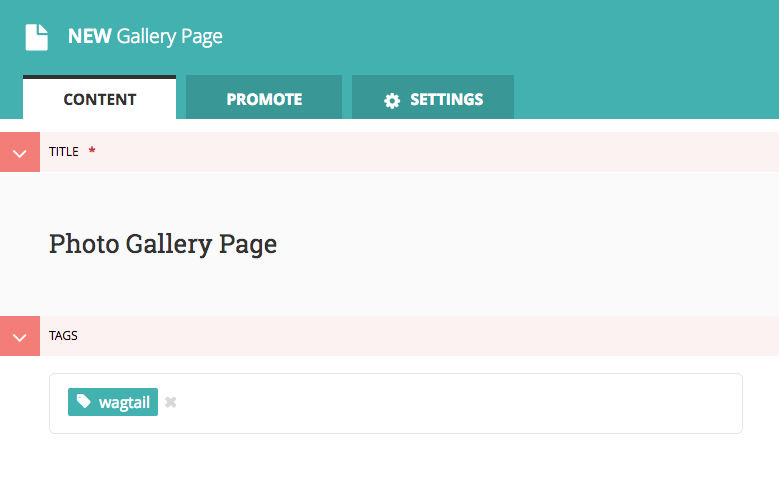
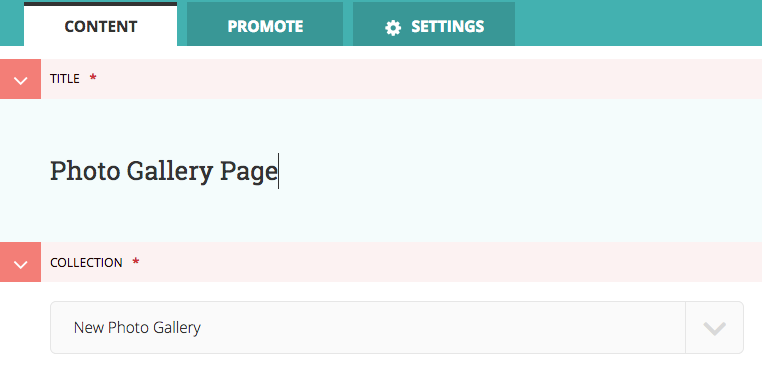
Docs updated for Photo Gallery (#839)
* new docs for photo gallery

* collection screenshots

* Collections added to wagtail main nav

diff --git a/{{cookiecutter.project_slug}}/pages/templates/wagtailadmin/shared/main_nav.html b/{{cookiecutter.project_slug}}/pages/templates/wagtailadmin/shared/main_nav.html
@@ -1,0 +1,26 @@
+{% raw %}{% load wagtailadmin_tags %}
+{% load i18n %}
+<nav class="nav-main">
+    <ul>
+        {{ menu_html }}
+        
+        <li class="menu-item">
+            <a href="/admin/collections/" class="icon icon-folder-open-1">Collections</a>
+        </li>
+
+        <li class="footer" id="footer">
+            <div class="account" id="account-settings" title="{% trans 'Edit your account' %}">
+                <span class="avatar square avatar-on-dark">
+                    <img src="{% avatar_url request.user size=50 %}" />
+                </span>
+                <em class="icon icon-arrow-up-after">{{ request.user.first_name|default:request.user.get_username }}</em>
+            </div>
+
+            <ul class="footer-submenu">
+                <li><a href="{% url 'wagtailadmin_account' %}" class="icon icon-user">{% trans "Account settings" %}</a></li>
+                <li><a href="{% url 'wagtailadmin_logout' %}" class="icon icon-logout">{% trans "Log out" %}</a></li>
+            </ul>
+
+        </li>
+    </ul>
+</nav>{% endraw %}

diff --git a/{{cookiecutter.project_slug}}/docs/documents_images_snippets/photo_gallery.rst b/{{cookiecutter.project_slug}}/docs/documents_images_snippets/photo_gallery.rst
@@ -1,13 +1,17 @@
 Creating Photo Gallery
 ~~~~~~~~~~~~~~~~~~~~~~
 
-To add a photo gallery you need to add a tag when uploading an image or to images uploaded already.
+You first need to create a collection by selecting **Collections** from the main navigation on the left and clicking **Add A Collection**. 
 
-.. image:: ../_static/images/photo_gallery_tag.png
+.. image:: ../_static/images/photo_gallery_collections.png
+
+Next step would be to upload an image or images to this collection.
+
+.. image:: ../_static/images/photo_gallery_upload.png
 
 Adding Gallery Page
 ___________________
 
-* Next add a Gallery Page and add the tag to pull all photos with this tag.
+* Next add a Photo Gallery Page and select the Collection.
 
 .. image:: ../_static/images/photo_gallery_page.png
